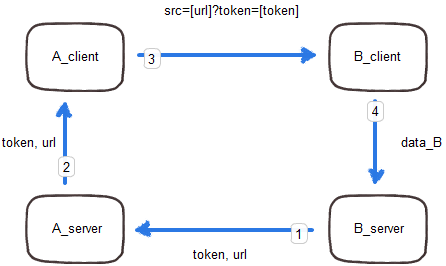
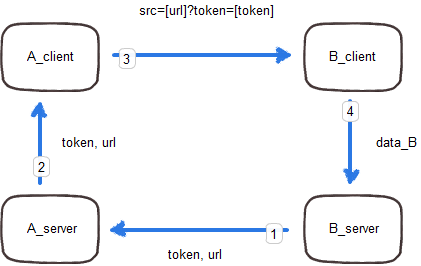
update:跨域

diff --git a/_posts/2014-10-14-跨域.md b/_posts/2014-10-14-跨域.md
@@ -5,11 +5,50 @@ date:   2014-10-14 23:37:00
 categories: Note
 ---
 
-跨域操作的一种尝试
+跨域操作的一次尝试
 =========================
 
-### 描述
+## 描述
+
 在页面A中，填写A页面的表单(dataA)，然后继续在A页面中去访问非同源的B页面，填写完B页面的表单(dataB)后，跳回A页面保存全部数据。
 
-### 设计
+## 设计
+
 ![通讯方式](http://heydelilah.github.io/data/cross/desc.png)
+
+通讯方式：
+- 客户端与客户端：`<iframe/>`内嵌窗体
+- 客户端与服务器：websocket/ajax/http
+- 服务器与服务器：tcp
+
+## 流程
+
+#### 1. 填写A页面的表单
+
+![第1步](http://heydelilah.github.io/data/cross/1.png)
+
+- 填写A页面的表单；
+- 生成一个全局回调函数，名字为cb_name;
+- A与B进行服务端对服务端的TCP通信：A用事先与B协议好的token，向B请求连接。
+- （把data,cb_name以及回跳地址cb_url都以参数形式发给B，B先缓存这些数据）
+
+#### 2. 在A页面中访问B页面，填写B页面表单
+
+![第2步](http://heydelilah.github.io/data/cross/2.png)
+
+- B通过验证后，返回给A登录验证码(token)和B的前端访问地址(url)；
+- A在前端页面嵌入src为此url的子窗体，打开了B页面；（使用token通过B服务端的登录验证）
+用户在B页面填写表单
+
+#### 3. 返回A页面，保存全部数据
+
+![第3步](http://heydelilah.github.io/data/cross/3.png)
+
+- B的服务端接收由前端传来的表单数据，返回在第一步缓存的cb_url和cb_name，以及token；
+- B前端重定向回A前端页面；`window.location.href = [cb_url]` (此时cb_url直接附带上cb_name和token信息返回)
+- 回跳地址是一个静态页面，没有业务逻辑，只是负责处理回跳：
+	1. 解析url,拿出searh里的token等信息 以及回调函数名cb_name
+	2. window.top 因为此时在在window的iframe下，所以在拿最高处的window对象;
+	3. 调用全局随机命名闭包函数。
+	4. 最后删除引用，释放空间
+- A服务器使用token，验证前端传来的数据是否被篡改过，没问题就保存信息到数据库；
